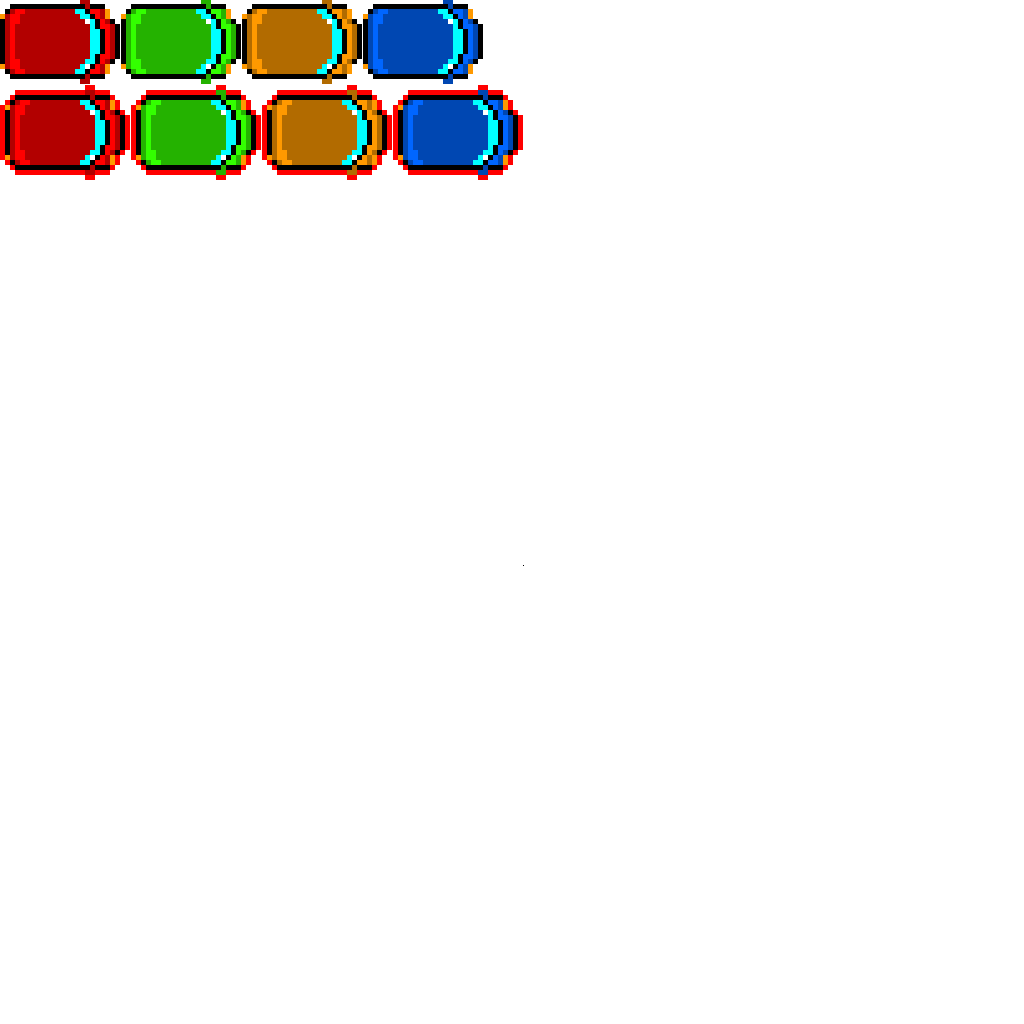
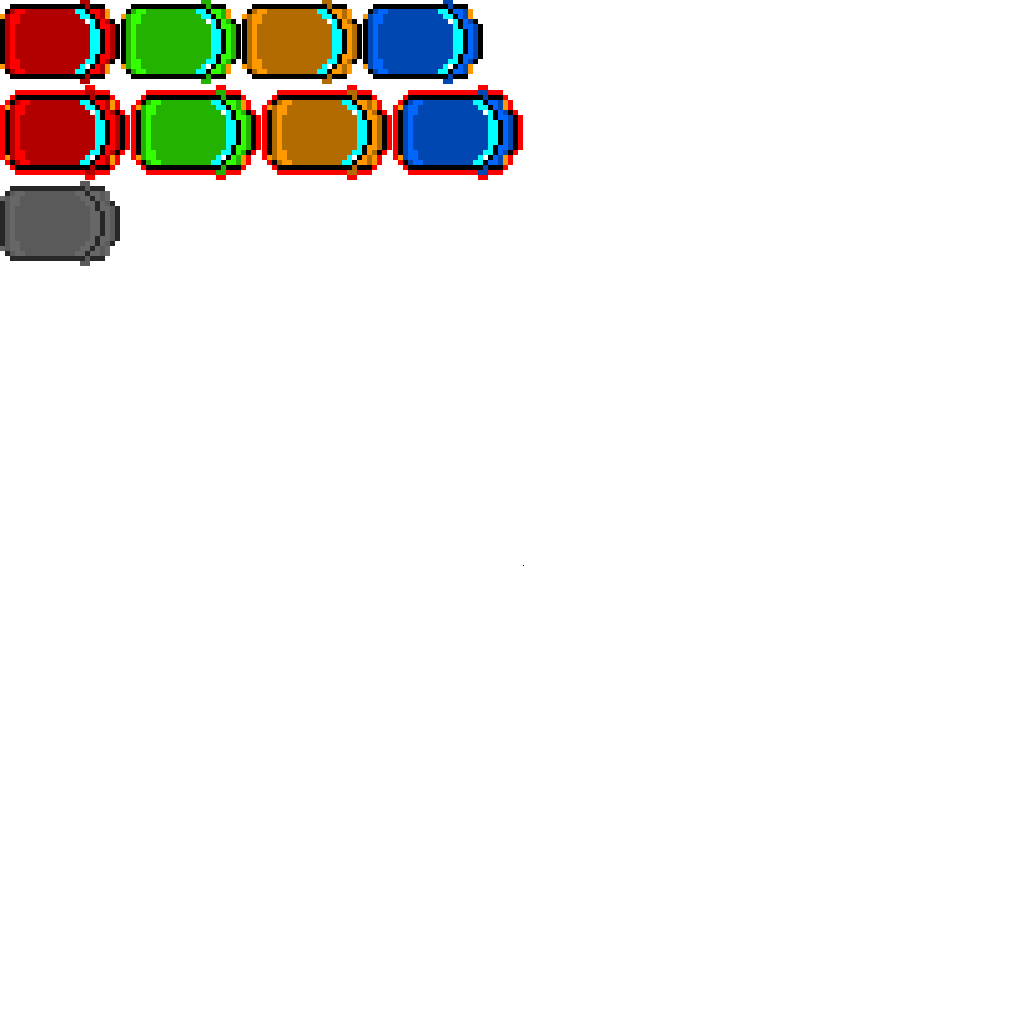
feat(OOP/task4): change sprite if stalled

Changed region(s): [[0.0, 0.1562, 0.125, 0.2812]]

diff --git a/3sem/OOP/task4/src/Car.cpp b/3sem/OOP/task4/src/Car.cpp
@@ -34,6 +34,7 @@ class Car {
         bool isAccelerating = false;
         float slowUnnaturalStartTime = 0;
         bool isSlowingUnnatural;
+        bool isStalled = false;
         bool checkOnce = true;
 
 
@@ -170,6 +171,7 @@ void Car::update() {
         } else if (elapsed < 2 * DURATION_OF_UNNATURAL_SLOWDOWN + ELAPSE_OF_UNNATURAL_SLOWDOWN) {
             float t = elapsed / DURATION_OF_UNNATURAL_SLOWDOWN - 1;  // 0.0 → 1.0
             velocity = Vector2Lerp(velocity2, targetVelocity, t);
+            isStalled = false;
         } else {
             velocity = targetVelocity;
             isSlowingUnnatural = false;
@@ -182,14 +184,17 @@ void Car::update() {
     } 
     position = Vector2Add(position, Vector2Scale(velocity, dt));
     velocity = Vector2Add(velocity, Vector2Scale(acceleration, dt));
+
 }
 
 void Car::draw(bool isDamaged){
-    Rectangle* texturePointer;
-    if (!isDamaged) {
-        texturePointer = &texture;
-    } else {
+    const Rectangle* texturePointer;
+    if (isDamaged) {
         texturePointer = &damagedTexture;
+    } else if (isStalled){
+        texturePointer = &STALLED_CAR_SPRITE;
+    } else {
+        texturePointer = &texture;
     }
 
     DrawTexturePro(*atlas, *texturePointer, Rectangle{position.x, position.y, width, height}, Vector2{0, 0}, 0, WHITE);
@@ -253,6 +258,7 @@ void Car::slowUnnatural() {
     }
     std::cout << "Начало: " << velocity.x << std::endl;
     checkOnce = true;
+    isStalled = true;
     velocity2 = velocity;
     slowUnnaturalStartTime = GetTime();
     isSlowingUnnatural = true;
